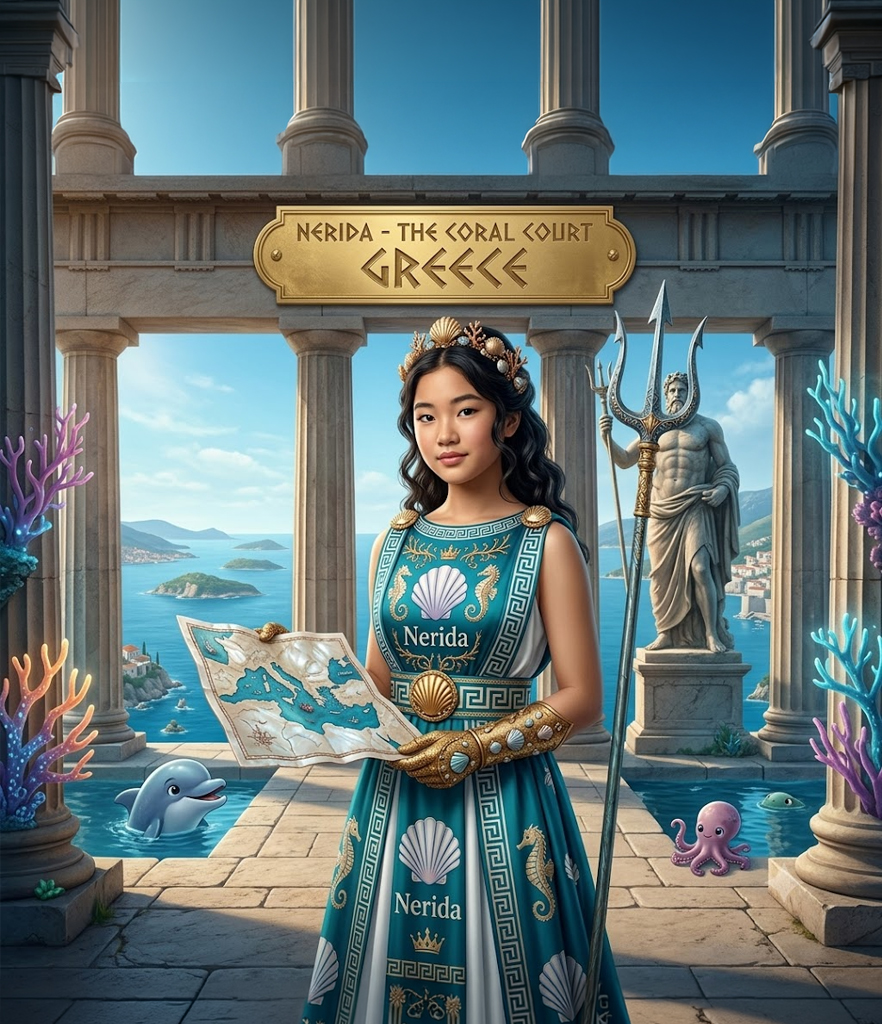
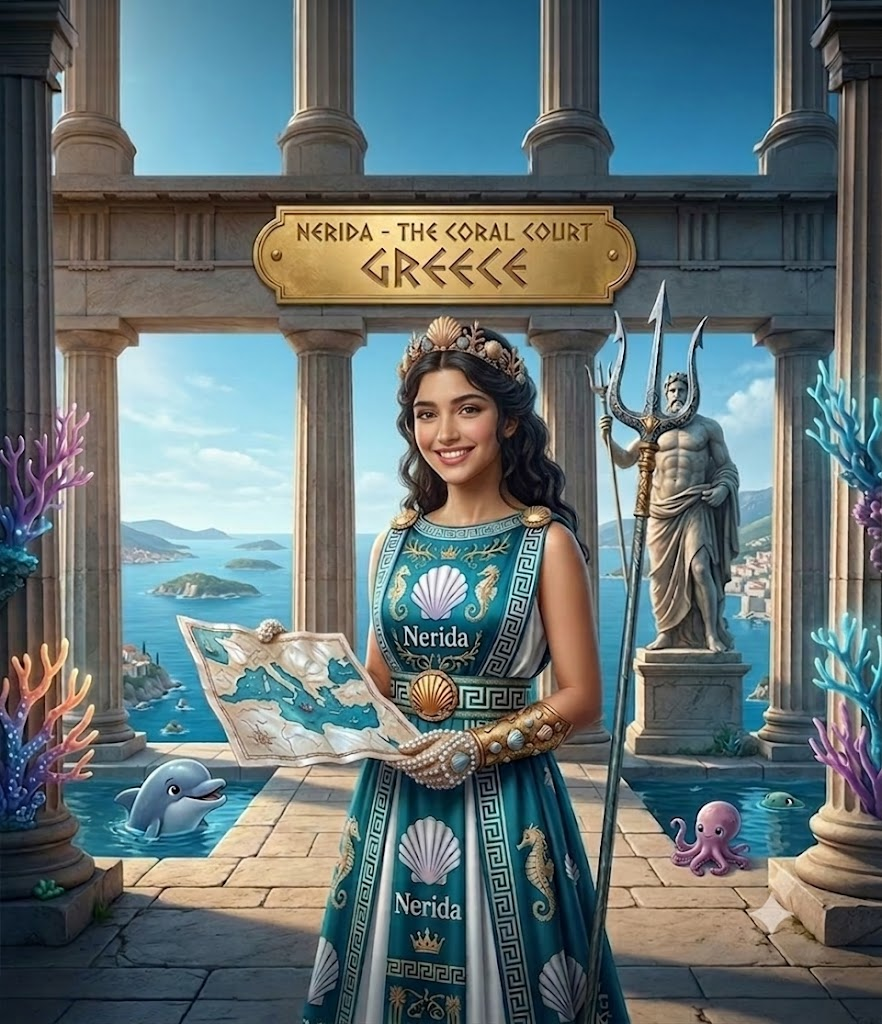
Fix the black gap on the platform card, add the cast portrait, adopt the ETL YOU mark
Three fixes and one addition.

The Everly Castle card on Live Platforms had a tall black gap above its
image. .etl-net-video is a 4:3 padding-box with a black background and
every other card fills it with absolutely-positioned media, so a
normal-flow image sat below the reserved space rather than in it. Now
absolute + cover, cropped to the faces, like the iframes.

Nerida's artwork updated: she now reads eighteen rather than younger,
which is what the whole register depends on.

The group portrait of all ten princesses replaces the grid of six
cropped thumbnails on the Home section and fills the platform card. One
frame says "ten different people" in a glance in a way six circles never
did.

The ETL YOU lockup is now ETL's real mark from the brand sheet: the
three-bar stack over the wordmark, Spectral for ETL, Public Sans for
YOU, taking currentColor so it retints with the child's chosen castle
colour. It replaces a gold pill that was my invention and belonged to no
ETL product.

Also fixes a quiet one: both castle pages specified Spectral and Public
Sans without ever loading them, so every heading had been falling back
to Georgia since the reskin.

diff --git a/everly-castle.html b/everly-castle.html
@@ -9,6 +9,9 @@
      its job is to say plainly that there is a real curriculum in here. The
      child is never told any of it. -->
 <meta name="description" content="Ten princesses, ten real subjects: botany, marine science, air and weather, states of matter, astronomy, literacy, early number, rhythm, geology and engineering. Built for children who cannot read yet. They think they are playing.">
+<link rel="preconnect" href="https://fonts.googleapis.com">
+<link rel="preconnect" href="https://fonts.gstatic.com" crossorigin>
+<link href="https://fonts.googleapis.com/css2?family=Spectral:wght@400;500;600;700&family=Public+Sans:wght@400;600;700&display=swap" rel="stylesheet">
 <style>
 /* ─────────────────────────────────────────────────────────────────────────
    Everly Castle -- the castle hub.
@@ -110,7 +113,7 @@ html[data-theme="starry"]{
 *{box-sizing:border-box;-webkit-tap-highlight-color:transparent}
 html,body{margin:0;padding:0}
 body{
-  font-family:'Trebuchet MS','Avenir Next',Verdana,sans-serif;
+  font-family:'Public Sans','Trebuchet MS',Verdana,sans-serif;
   color:var(--ink);
   /* A clear day-sky wash. The grain is a CSS gradient, not an image:
      nothing to load, nothing to go missing, and it retints itself with the
@@ -129,16 +132,22 @@ body{
 }
 
 header{text-align:center;padding:18px 18px 6px}
-.etlyou{display:inline-block;width:112px;margin:0 auto 10px;opacity:.85;text-decoration:none}
+/* ETL YOU. Spectral for the wordmark and Public Sans for YOU, per the brand
+   sheet; the three-bar stack is ETL's own mark, inherited unchanged. It takes
+   currentColor so it retints with the child's chosen castle colour instead of
+   sitting on the page as a foreign object. */
+.etlyou{
+  display:inline-block;width:96px;margin:0 auto 8px;
+  color:var(--ink);opacity:.9;text-decoration:none
+}
 .etlyou svg{width:100%;height:auto;display:block}
 .etlyou .etl{
-  font-family:'Trebuchet MS',Verdana,sans-serif;font-size:25px;font-weight:700;
-  letter-spacing:1.5px;fill:var(--ink)
+  font-family:var(--serif);font-size:30px;font-weight:600;
+  letter-spacing:2px;fill:currentColor
 }
-.etlyou .badge{fill:var(--gold)}
 .etlyou .you{
-  font-family:'Trebuchet MS',Verdana,sans-serif;font-size:19px;font-weight:700;
-  letter-spacing:1px;fill:#fffdf9
+  font-family:'Public Sans','Trebuchet MS',sans-serif;font-size:15px;font-weight:700;
+  letter-spacing:1.2px;fill:currentColor
 }
 .crest{color:var(--blue);line-height:0;filter:drop-shadow(0 4px 6px rgba(22,32,43,.25))}
 .crest svg{display:inline-block}
@@ -365,11 +374,20 @@ dialog button{
        product name stays the loud thing on the page. It is drawn inline
        rather than loaded as a file so it can never be the missing asset that
        leaves a masthead blank. -->
+  <!-- The real ETL YOU mark, per Dr. O's brand sheet, replacing a gold pill I
+       had invented. ETL's own three-bar stack sits above the wordmark, drawn
+       as offset rounded outlines climbing left to right, with YOU set small
+       and raised against ETL in Spectral. Pure geometry plus type: nothing to
+       load, and it holds at any size. -->
   <a class="etlyou" href="#" aria-label="ETL YOU, Emerging Technologies Laboratory Youth" onclick="return false">
-    <svg viewBox="0 0 150 36" role="img" aria-hidden="true">
-      <text x="0" y="26" class="etl">ETL</text>
-      <rect x="64" y="4" width="84" height="28" rx="14" class="badge"/>
-      <text x="106" y="24" class="you" text-anchor="middle">YOU</text>
+    <svg viewBox="0 0 132 74" role="img" aria-hidden="true">
+      <g fill="none" stroke="currentColor" stroke-width="3.4">
+        <rect x="8"  y="30" width="34" height="15" rx="7.5"/>
+        <rect x="19" y="17" width="34" height="15" rx="7.5"/>
+        <rect x="30" y="4"  width="34" height="15" rx="7.5"/>
+      </g>
+      <text x="4" y="70" class="etl">ETL</text>
+      <text x="72" y="59" class="you">YOU</text>
     </svg>
   </a>
   <!-- Engraved castle, not the pink emoji. Same reasoning as the crests and as

diff --git a/index.html b/index.html
@@ -2697,8 +2697,13 @@ document.addEventListener('DOMContentLoaded', function(){
            them are still being made. No poster, no still layered under a
            video, because there is no video here yet. -->
       <div class="etl-net-card etl-net-card--wide" style="order: 19;">
+        <!-- .etl-net-video is a 4:3 padding-box with a black background, and
+             every other card fills it with absolutely-positioned media. A
+             normal-flow image sat BELOW that box, leaving a tall black gap
+             above it. Absolute + cover fills the frame the way the iframes do,
+             with the crop biased to the faces. -->
         <div class="etl-net-video">
-          <img src="/agents/Posy.jpg" alt="Posy, princess of the Wild Garden, Everly Castle" loading="lazy" style="width:100%;height:auto;display:block;">
+          <img src="/agents/Everly_Castle_cast.jpg" alt="The ten princesses of Everly Castle" loading="lazy" style="position:absolute;inset:0;width:100%;height:100%;object-fit:cover;object-position:50% 34%;display:block;">
         </div>
         <div class="etl-net-body">
           <div class="etl-net-num">Platform // 13 <span style="display:inline-block;background:#c9a23f;color:#16202b;font-family:'Public Sans',sans-serif;font-size:10px;font-weight:700;letter-spacing:1.5px;padding:3px 9px;margin-left:6px;border-radius:2px;">ETL YOU</span></div>
@@ -3701,15 +3706,11 @@ That&rsquo;s the job. If she&rsquo;s having a bad day I can remind her that I do
         <a href="/everly-castle" style="display:inline-block; background:#28527a; color:#fff; font-family:'Public Sans',sans-serif; font-size:12px; font-weight:700; letter-spacing:2.5px; text-transform:uppercase; padding:14px 28px; text-decoration:none; border:2px solid #16202b;">Open Everly Castle &rarr;</a>
       </div>
 
-      <!-- Six of the ten. An even number, and enough to show the cast is not
-           one face repainted. -->
-      <div style="display:grid; grid-template-columns:repeat(3,1fr); gap:14px;">
-        <img src="/agents/Posy.jpg"       alt="Posy, the Wild Garden, France"          loading="lazy" style="width:100%;aspect-ratio:1;object-fit:cover;object-position:50% 36%;display:block;border:2px solid #16202b;">
-        <img src="/agents/Nerida.jpg"     alt="Nerida, the Coral Court, Greece"        loading="lazy" style="width:100%;aspect-ratio:1;object-fit:cover;object-position:50% 36%;display:block;border:2px solid #16202b;">
-        <img src="/agents/Lenora.jpg"     alt="Lenora, the Star Balcony, Mongolia"     loading="lazy" style="width:100%;aspect-ratio:1;object-fit:cover;object-position:50% 36%;display:block;border:2px solid #16202b;">
-        <img src="/agents/Almasi.jpg"     alt="Almasi, the Fossil Field, Kenya"        loading="lazy" style="width:100%;aspect-ratio:1;object-fit:cover;object-position:50% 36%;display:block;border:2px solid #16202b;">
-        <img src="/agents/Elowyn.jpg"     alt="Elowyn, the Story Loft, New Zealand"    loading="lazy" style="width:100%;aspect-ratio:1;object-fit:cover;object-position:50% 36%;display:block;border:2px solid #16202b;">
-        <img src="/agents/Bex.jpg"        alt="Bex, the Workshop, Brazil"              loading="lazy" style="width:100%;aspect-ratio:1;object-fit:cover;object-position:50% 36%;display:block;border:2px solid #16202b;">
+      <!-- The whole cast in one frame. This replaced a grid of six cropped
+           thumbnails: the group shot says "ten different people" in a single
+           glance, which six circles never quite did. -->
+      <div>
+        <img src="/agents/Everly_Castle_cast.jpg" alt="The ten princesses of Everly Castle together: Neva, Bex, Clementine, Almasi, Elowyn, Lenora, Nerida, Piper, Posy and Zephyra" loading="lazy" style="width:100%;height:auto;display:block;border:2px solid #16202b;">
       </div>
 
     </div>

diff --git a/everly-castle-wing.html b/everly-castle-wing.html
@@ -4,6 +4,9 @@
 <meta charset="utf-8">
 <meta name="viewport" content="width=device-width, initial-scale=1, viewport-fit=cover">
 <title>Everly Castle</title>
+<link rel="preconnect" href="https://fonts.googleapis.com">
+<link rel="preconnect" href="https://fonts.gstatic.com" crossorigin>
+<link href="https://fonts.googleapis.com/css2?family=Spectral:wght@400;500;600;700&family=Public+Sans:wght@400;600;700&display=swap" rel="stylesheet">
 <style>
 /* ─────────────────────────────────────────────────────────────────────────
    A wing of Everly Castle. One princess, one subject, one thing to do.
@@ -82,7 +85,7 @@ html[data-theme="starry"]{
 *{box-sizing:border-box;-webkit-tap-highlight-color:transparent}
 html,body{margin:0;padding:0;height:100%}
 body{
-  font-family:'Trebuchet MS','Avenir Next',Verdana,sans-serif;
+  font-family:'Public Sans','Trebuchet MS',Verdana,sans-serif;
   color:var(--ink);
   background:
     repeating-linear-gradient(90deg, rgba(40,82,122,.028) 0 2px, transparent 2px 4px),
